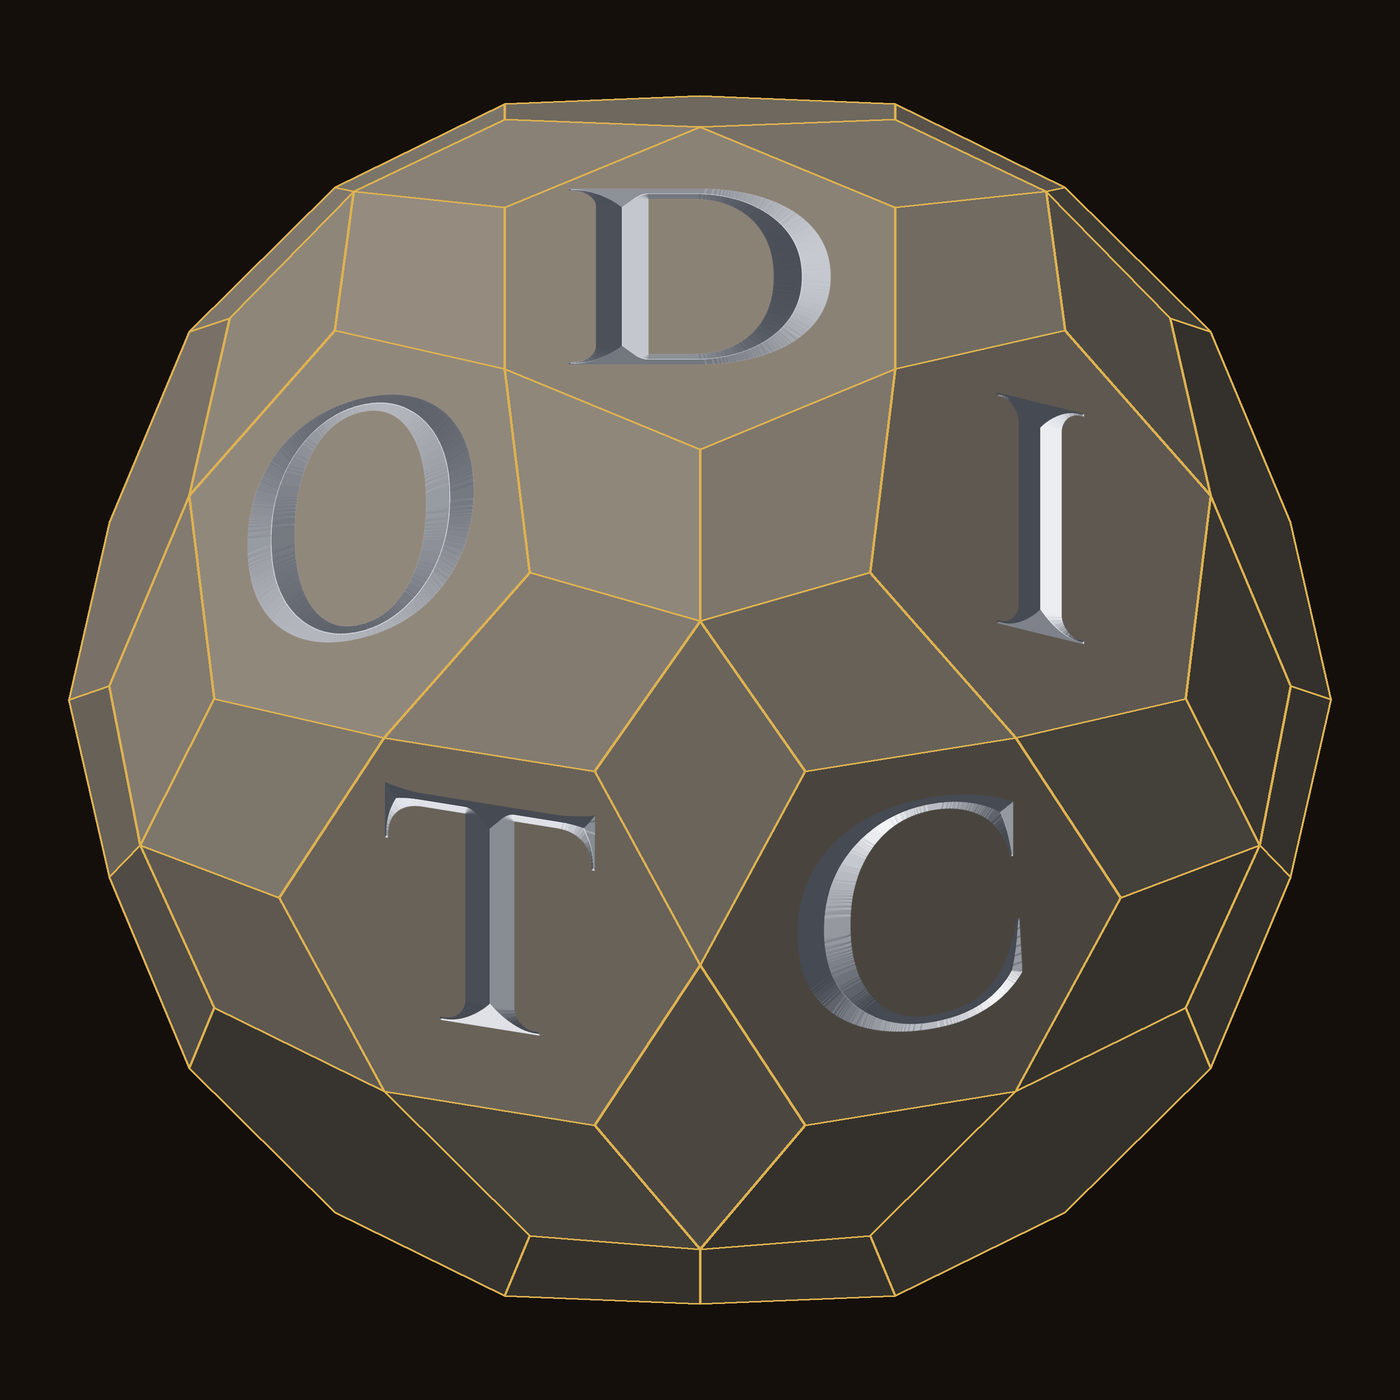
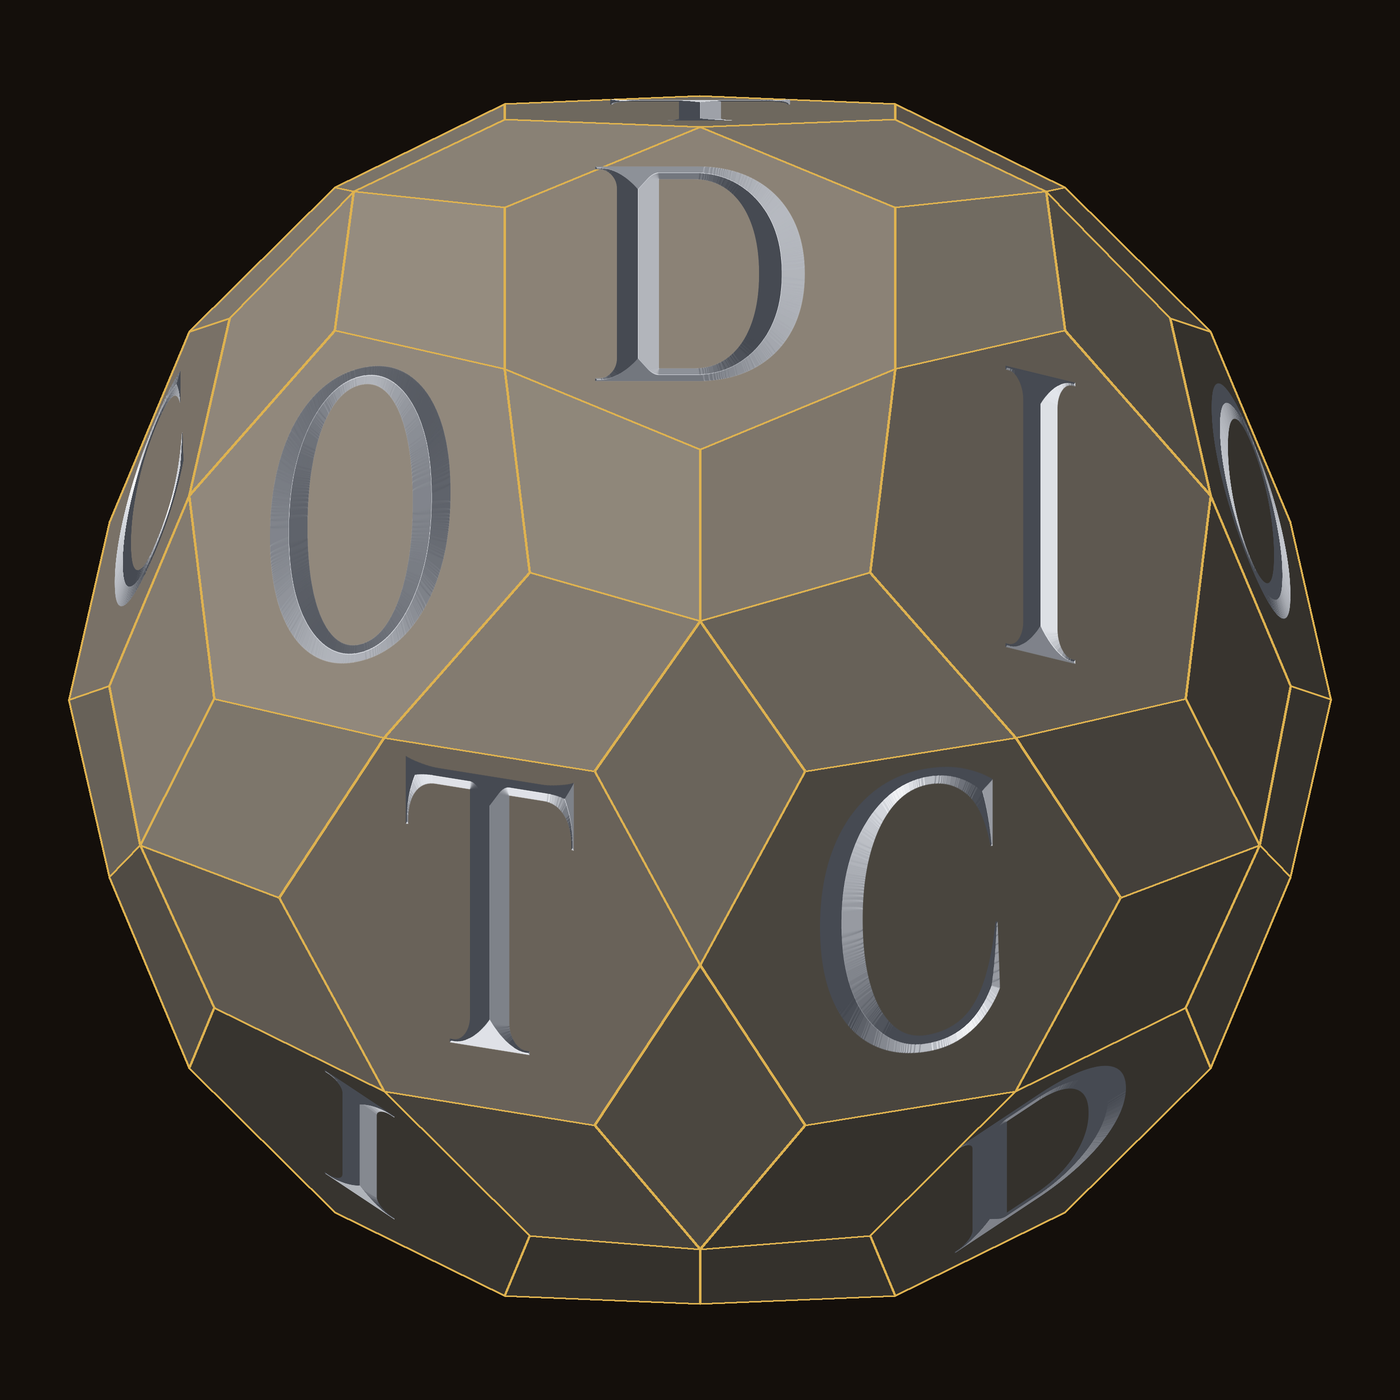
OG letters: all hexagons lettered and coloured by the compound of five tetrahedra, fragments at the rim, elongated Trajan forms (DICTO)

diff --git a/studies/2026-10-22-dicto-square/og_letters.py b/studies/2026-10-22-dicto-square/og_letters.py
@@ -31,7 +31,19 @@ TILT=rot((1,0,0),-0.12)                                # a slight tilt, as in th
 V=V@TILT.T
 ring_c={tuple(f):V[f].mean(0) for f in ring}
 order=sorted(ring,key=lambda f:(math.atan2(ring_c[tuple(f)][0],ring_c[tuple(f)][1])+0.6)%(2*math.pi))   # clockwise from the top
-LET={tuple(f):ch for f,ch in zip(order,'DICTO')}
+RINGLET={tuple(f):ch for f,ch in zip(order,'DICTO')}
+# every hexagon lettered like the DICTO square: the 20 hexagons fall into the five tetrahedra of the compound of five
+# (hexagon centres pairwise at cos = -1/3); each tetrahedron takes the letter of its hexagon in the centre ring,
+# so no two neighbouring hexagons share a letter and each letter appears four times.
+import itertools
+Nh=np.array([V[f].mean(0) for f in hexes]); Nh/=np.linalg.norm(Nh,axis=1)[:,None]; Dd=Nh@Nh.T
+tets=[c for c in itertools.combinations(range(20),4) if all(abs(Dd[a,b]+1/3)<1e-6 for a,b in itertools.combinations(c,2))]
+cover=[cv for cv in itertools.combinations(tets,5) if len(set(sum(cv,())))==20][0]   # one of the two (mirror) compounds
+LET={}
+for t in cover:
+    ch=[RINGLET[tuple(hexes[i])] for i in t if tuple(hexes[i]) in RINGLET]; assert len(ch)==1
+    for i in t: LET[tuple(hexes[i])]=ch[0]
+assert len(LET)==20
 GROUND=(20,15,11); GOLD=(222,178,80); STONE=(150,141,128); PLAT=(214,218,224)
 import os as _os
 TINT=_os.environ.get('TINT','1')=='1'   # DICTO: each lettered hexagon in its element colour, the kite stars in platinum
@@ -63,7 +75,9 @@ def render(img,cx,cy,rad,SS=2):
             # facet frame: U to the right on screen, Vv up on screen, both in the facet's plane
             c=V[f].mean(0); U=np.array([1,0,0])-n*n[0]; U/=np.linalg.norm(U); Vv=np.cross(n,U)
             r=np.linalg.norm(V[f]-c,axis=1).min()            # inradius-ish
-            px=int(2*r*s*1.0); M,gx,gy=carve_tile(LET[tuple(f)],px)
+            px=int(2*r*s*1.2); M,gx,gy=carve_tile(LET[tuple(f)],px)
+            hx,hy=r*0.8,r*1.22                                   # elongated Trajan forms: tall and narrow
+            gx=gx*(hy/hx)
             k=1.6; nl=np.dstack([gx*k,-gy*k,np.ones_like(gx)]); nl/=np.linalg.norm(nl,axis=2,keepdims=True)
             nw=nl[...,0:1]*U+nl[...,1:2]*Vv+nl[...,2:3]*n           # groove normals in the world
             lam=np.clip(nw@light,0,1); hv=light+np.array([0,0,1.0]); h=np.clip(nw@(hv/np.linalg.norm(hv)),0,1)**40
@@ -71,8 +85,7 @@ def render(img,cx,cy,rad,SS=2):
             rgb=dark+(lite-dark)*lam[...,None]**1.3; rgb=rgb+(255-rgb)*h[...,None]*0.8
             tile=Image.fromarray(np.clip(rgb,0,255).astype(np.uint8)); mask=Image.fromarray((ndimage.gaussian_filter(M,0.6)*255).astype(np.uint8))
             # affine map tile (px x px, side 2*r*1.6 in the facet) onto the screen
-            half=r*1.0
-            corner=lambda a,b_: P(c+U*(a*half)+Vv*(b_*half))
+            corner=lambda a,b_: P(c+U*(a*hx)+Vv*(b_*hy))
             (x0,y0),(x1,y1),(x2,y2)=corner(-1,1),corner(1,1),corner(-1,-1)
             # screen = A*(tx,ty) + o ; PIL needs inverse
             A=np.array([[(x1-x0)/px,(x2-x0)/px],[(y1-y0)/px,(y2-y0)/px]]); Ai=np.linalg.inv(A)

diff --git a/studies/2026-10-22-dicto-square/README.md b/studies/2026-10-22-dicto-square/README.md
@@ -12,3 +12,4 @@ emblem_forms.py -> dicto-emblem-forms.png; STAR=1 -> dicto-emblem-forms-star.png
 ## OG with carved letters (DICTO 2026-10-22)
 og_letters.py -> og-letters.png: the DICTO Ogdoecontahedron along a five-fold axis (as Figure 1(c) of #31; geometry og-geometry.json = papers/ogdoecontahedron/data/hstar-render.json), no colours: stone facets, gold edges; D-I-C-T-O V-cut in platinum leaf into the five hexagons round the centre, clockwise from the top as in the emblem, carved in each facet's own plane so the letters foreshorten.
 Colour version (default, DICTO): each lettered hexagon in its element colour, the kites (stars of five) in platinum; TINT=0 -> og-letters-stone.png, the plain stone version.
+All 20 hexagons lettered and coloured like the DICTO square (DICTO): they fall into the five tetrahedra of the compound of five (centres pairwise at cos −1/3; 10 such tetrahedra, 2 mirror compounds, the first used); each tetrahedron takes the letter of its hexagon in the centre ring, so no neighbours share a letter and the partial hexagons at the rim show fragments. Elongated Trajan forms (0.8 × 1.22 of the hexagon's inradius).
